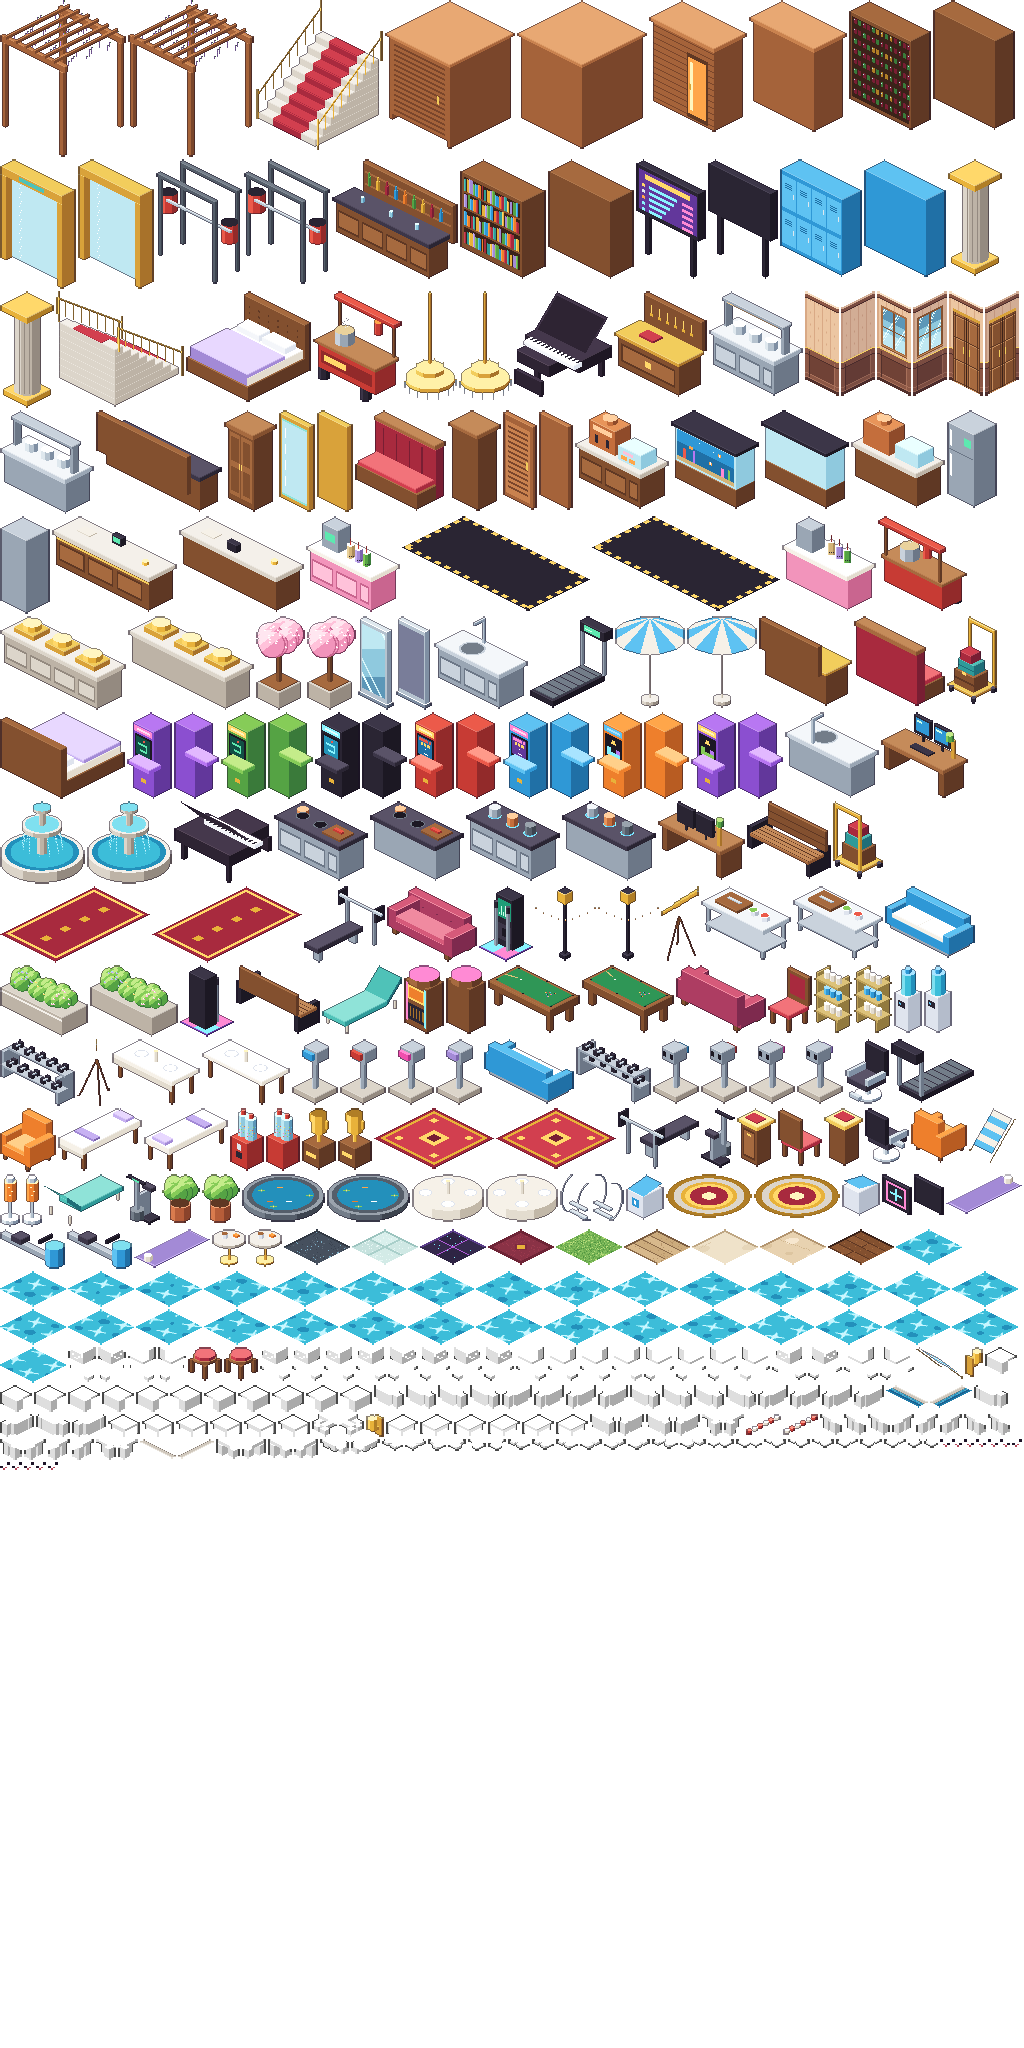
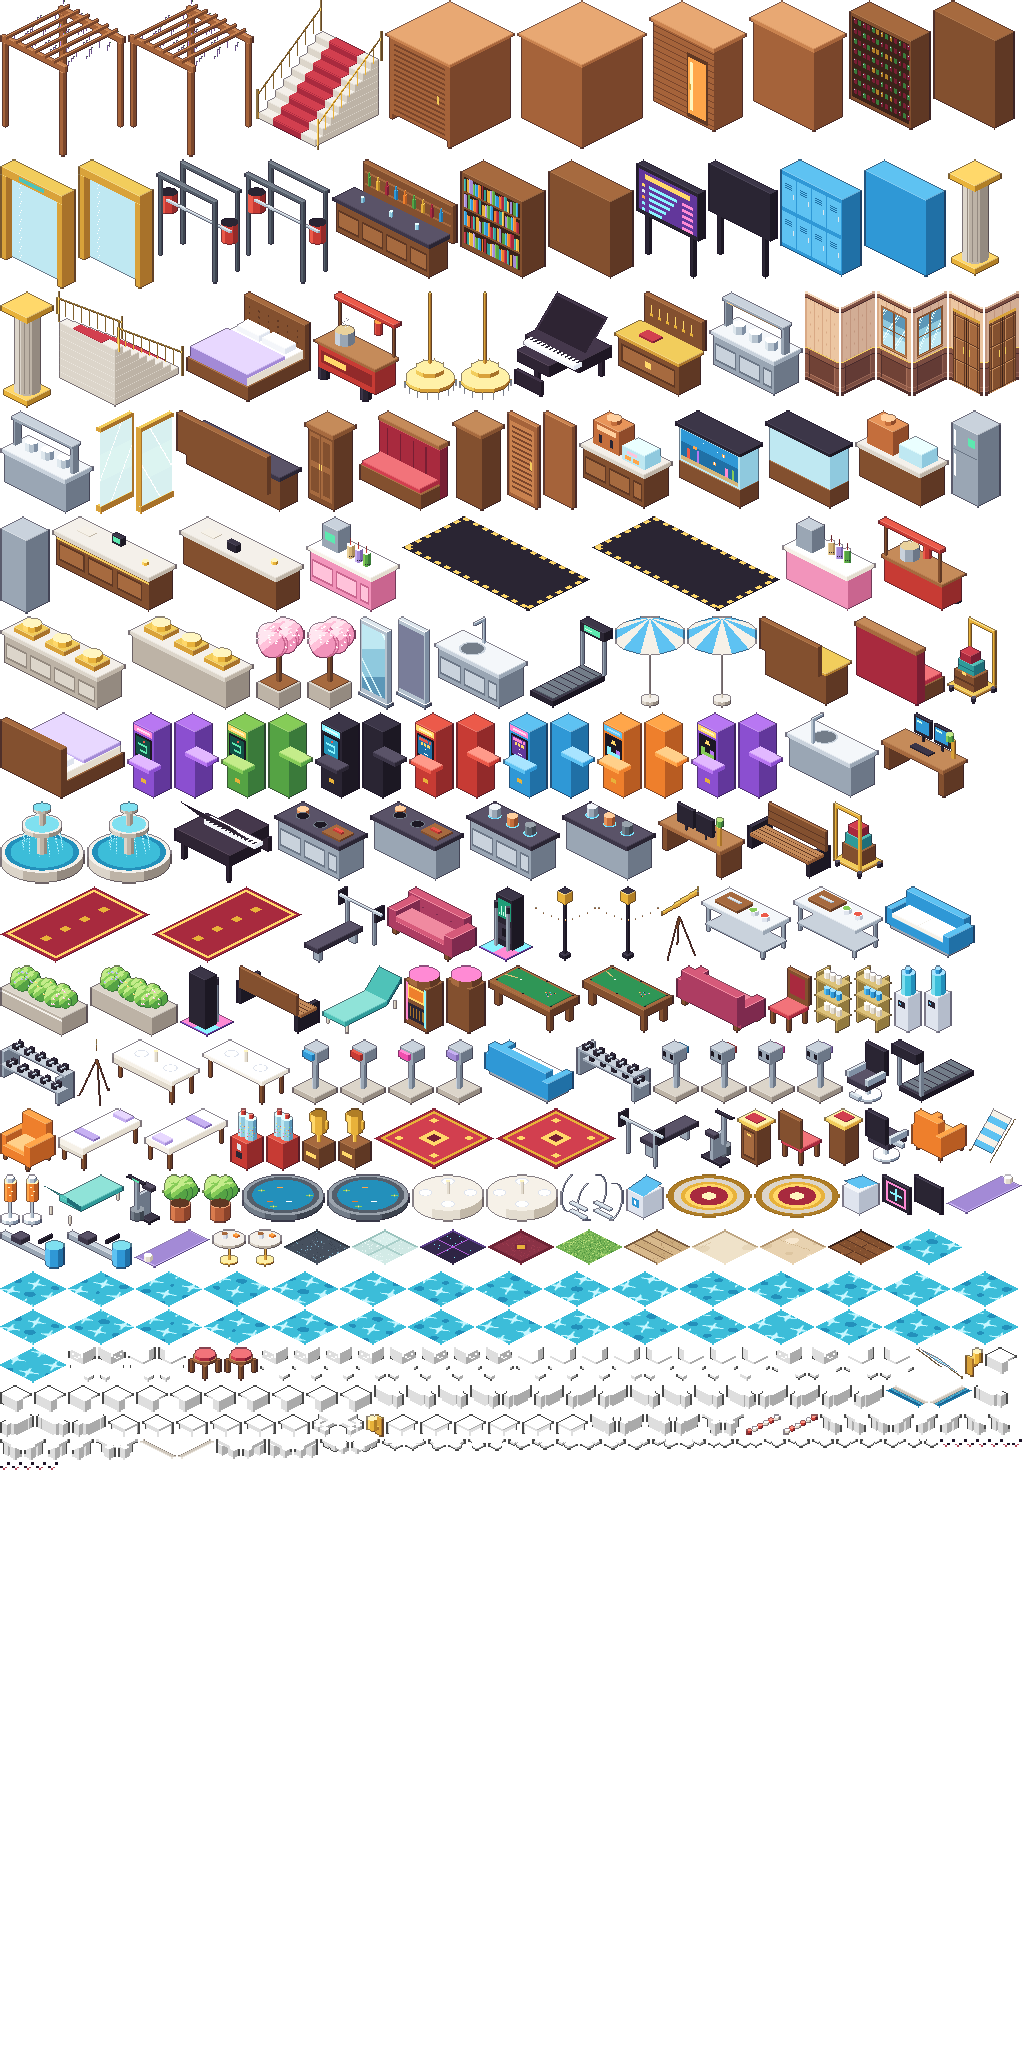
Salon partitions: continuous see-through glass wall
The glass ran across the partition line instead of along it, so each
tile read as a separate framed mirror. Glass now spans the full tile
along the line, is translucent, and only has slim brass rails, so a row
joins into one wall. selout keeps pixel alpha.

Changed region(s): [[0.0938, 0.1875, 1.0, 0.25]]

diff --git a/art/sprites/furn-wellness.js b/art/sprites/furn-wellness.js
@@ -223,13 +223,29 @@ export default function build(add) {
     k.box(0.2, 1.3, 0.8, 1.5, 22, 24, M.lavender, { edge: false });
   });
 
+  // Frosted glass wall section. The glass runs along v and spans the whole
+  // tile, so a row of partitions joins into one continuous see-through wall.
   item(add, 'spa_partition', [1, 1], 92, (k) => {
-    k.box(0.05, 0.42, 0.95, 0.58, 0, 84, M.brass, { front: (d) => {
-      d.rect(0.1, 0.9, 4, 80, M.teal[0]);
-      d.rect(0.12, 0.88, 6, 78, M.glass[1]);
-      for (let z = 14; z < 74; z += 16) d.rect(0.2, 0.25, z, z + 10, '#ffffff');
-    } });
-  });
+    const u = 0.5;
+    k.box(u - 0.06, 0, u + 0.06, 1, 0, 6, M.brass, { edge: false }); // floor rail
+    k.custom(u - 0.02, 0, u + 0.02, 1, 6, 80, ({ P, cv }) => {
+      // translucent aquamarine glass with a frosted band and soft sheen
+      const top = 80; const bottom = 6;
+      for (let z = bottom; z < top; z++) {
+        for (let i = 0; i < 64; i++) {
+          const v = i / 64;
+          const [x, y] = P(u, v, z);
+          const frosted = z > 30 && z < 58;
+          let c = frosted ? [196, 236, 232, 150] : [150, 214, 214, 95];
+          const d = (i + Math.round(z * 0.9)) % 46;
+          if (d < 2) c = [255, 255, 255, 170];
+          cv.set(Math.round(x), Math.round(y), c);
+        }
+      }
+    });
+    k.box(u - 0.05, 0, u + 0.05, 1, 80, 84, M.brass, { edge: false }); // top rail
+    k.box(u - 0.05, 0, u + 0.05, 0.05, 6, 80, M.brass, { edge: false }); // slim post
+  }, { selout: 0 });
 
   item(add, 'spa_door', [2, 1], 100, (k) => {
     for (const u of [0.05, 1.8]) k.box(u, 0.3, u + 0.15, 0.7, 0, 84, M.brass);

diff --git a/art/lib/canvas.js b/art/lib/canvas.js
@@ -133,10 +133,12 @@ export class PixelCanvas {
         }
       }
     }
+    if (k <= 0) return this;
     for (const [x, y] of edge) {
-      const [r, g, b] = this.get(x, y);
+      const [r, g, b, a] = this.get(x, y);
       const t = k;
-      this.set(x, y, [Math.round(r * (1 - t) + 26 * t), Math.round(g * (1 - t) + 16 * t), Math.round(b * (1 - t) + 36 * t), 255]);
+      // keep the pixel's own alpha so translucent glass stays translucent
+      this.set(x, y, [Math.round(r * (1 - t) + 26 * t), Math.round(g * (1 - t) + 16 * t), Math.round(b * (1 - t) + 36 * t), a]);
     }
     return this;
   }
